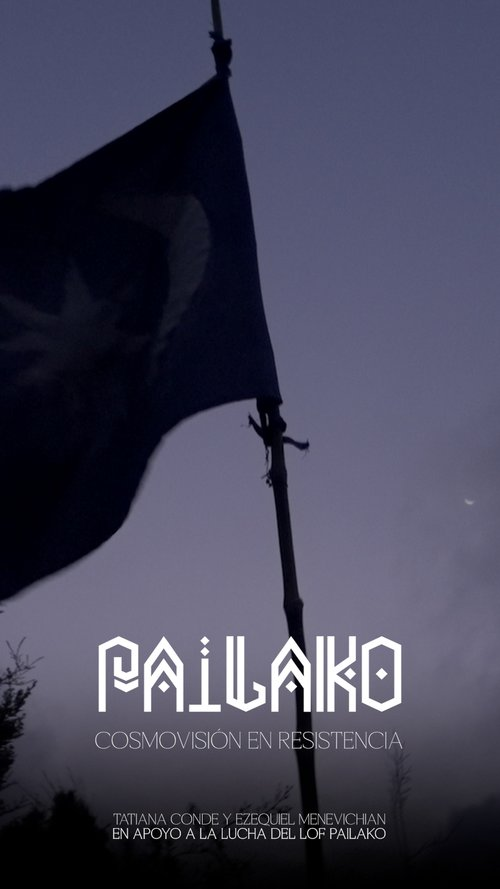
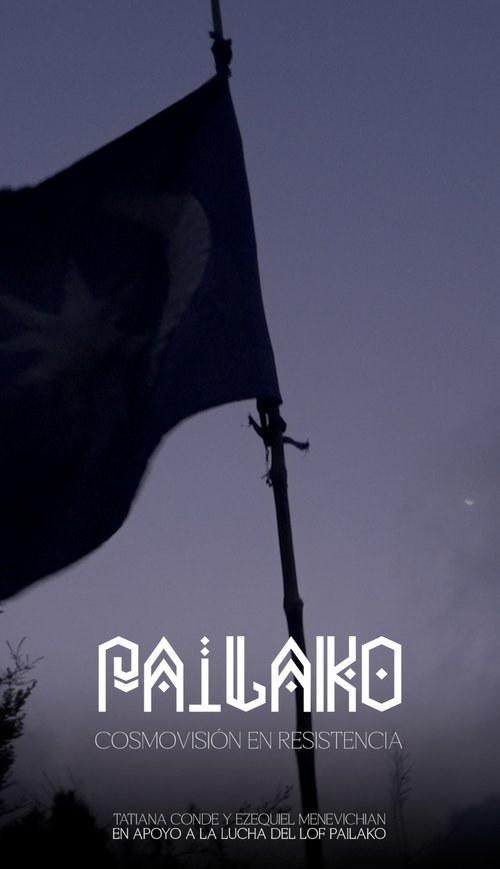
fix(finca): banda negra en 3 pósters + país/año/duración desde el Excel oficial (#452)
1) Póster: 'Tierra que habla' (y otros 2) traían negro puro embebido al
   pie del archivo del press kit — 23px de 707. El marco es 2:3 y la
   imagen es más ancha en proporción, así que cover la escala por altura
   y mostraba la banda entera. Recortadas: tierra-que-habla (23px abajo),
   pailako (20px abajo), la-nostra-isola (16px arriba).

2) Datos: 5 cortos y 3 largos quedaron sin país/año/duración/género/flags
   porque el parser de la columna 'País/Año/Duración/Género' solo toleraba
   el apóstrofe recto. La fuente usa tres variantes (' ´ ’), a veces coma
   en vez de barra ('Paraguay, 2024, 105', Documental') y espacios dobles.
   Parser robusto → 9 rellenados desde el Excel oficial, 0 sin resolver.

Typo de la fuente asumido: 'Soy agua' trae año '20255' → 2025 (confirmar).

diff --git a/index.html b/index.html
@@ -59,8 +59,8 @@ window.sentryOnLoad = function() {
      contraste en la pestaña ("borde blanco"). La marca flotante contrasta sola
      en tema claro y oscuro — sin caja, sin backdrop. El apple-touch-icon del
      home screen conserva el ícono completo con fondo (ahí sí corresponde). -->
-<link rel="icon" type="image/png" sizes="32x32" href="/favicon.png?v=202607291158">
-<link rel="icon" type="image/png" sizes="192x192" href="/favicon-192.png?v=202607291158">
+<link rel="icon" type="image/png" sizes="32x32" href="/favicon.png?v=202607291206">
+<link rel="icon" type="image/png" sizes="192x192" href="/favicon-192.png?v=202607291206">
 <!-- Caching gestionado por el Service Worker (sw.js) — Network First para HTML -->
 <title>Otrofestiv — Tú decides el festival</title>
 <meta name="description" content="Tu agenda personal para festivales de cine. Explorá, planificá y sacá el máximo de cada festival.">
@@ -3024,7 +3024,7 @@ setTimeout(function(){
   function bootApp(){
     var s = document.createElement('script');
     s.type = 'module';
-    s.src="/src/main.js?v=202607291158";
+    s.src="/src/main.js?v=202607291206";
     document.body.appendChild(s);
     // Watchdog de boot (P0 18 jul): si el grafo ESM murió en el import (caché
     // HTTP mixta tras deploys en ráfaga — main.js nuevo + módulo viejo sin el

diff --git a/sw.js b/sw.js
@@ -9,8 +9,8 @@
 //      el reload forzado por deploy, se sirve ese HTML en vez de OFFLINE_HTML (una
 //      sesión viva ya no se destruye por un deploy con señal mala). Audit P3 #10.
 
-const CACHE_NAME = 'otrofestiv-v202607291158';
-const BUILD = '202607291158';
+const CACHE_NAME = 'otrofestiv-v202607291206';
+const BUILD = '202607291206';
 // Caché PERSISTENTE de assets inmutables (pósters, iconos, fonts): NO se borra
 // en activate. Durante un festival deployamos a diario; sin esto, cada deploy
 // obligaba a re-descargar ~8MB de pósters ya vistos (señal rural en sede).

diff --git a/src/main.js b/src/main.js
@@ -446,7 +446,7 @@ FESTIVAL_STORAGE_KEY=(storage.getActiveFestId()||_DEFAULT_FEST_ID)+'_';
 // BUILD_VERSION: cambia en cada deploy.
 // Al cargar, compara con localStorage. Si difiere → reload duro.
 // sessionStorage evita loops infinitos dentro de la misma sesión.
-const BUILD_VERSION='202607291158';
+const BUILD_VERSION='202607291206';
 (function(){
   // _vk eliminado — el build version se accede vía storage.getBuild()/setBuild()
   const _sk='otrofestiv_reloaded';

diff --git a/CLAUDE.md b/CLAUDE.md
@@ -3,7 +3,7 @@
 > No editar a mano — los cambios se sobreescriben en el próximo deploy.
 > Para modificar secciones estáticas, editar el template en el script.
 >
-> Último commit: `0cb50cf fix(design): el velo sale del hilo principal — escalera CSS en el compositor (#450) (#450)`
+> Último commit: `68a6dbb perf(render): un scrim cerrado no debe pintar — 46→36 capas, 35→23MB de backing (#451)`
 
 ---
 
